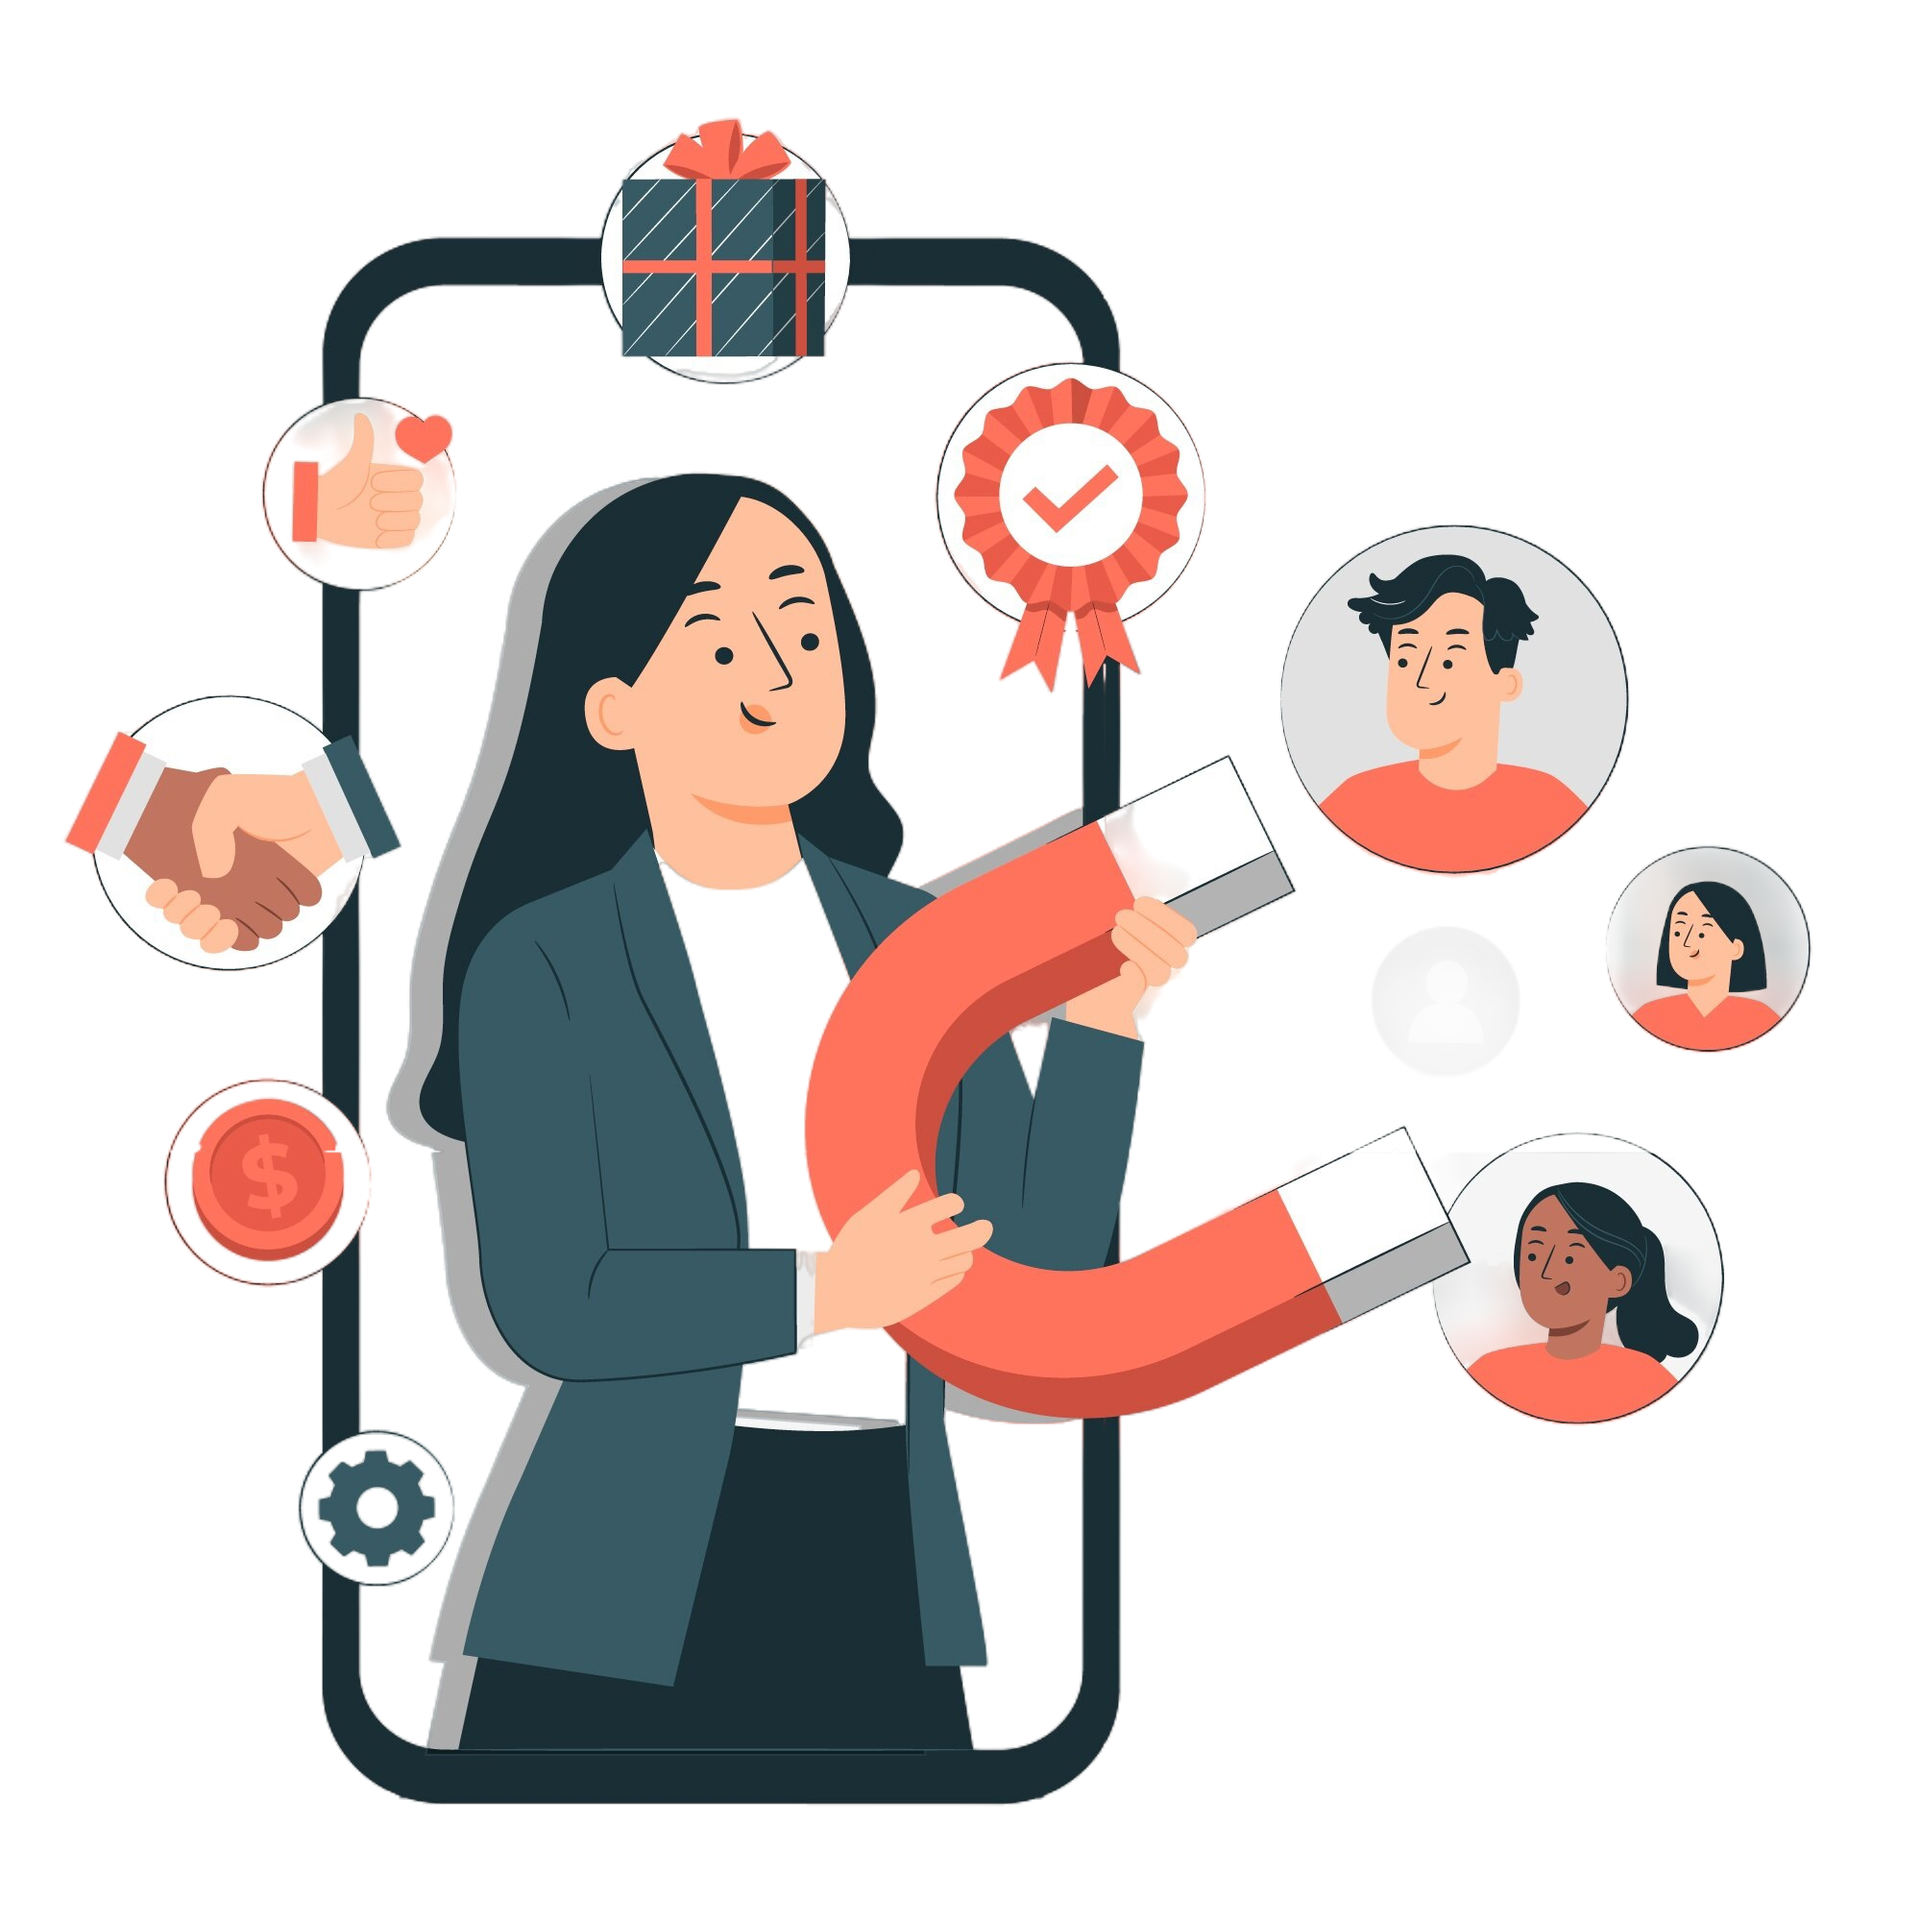
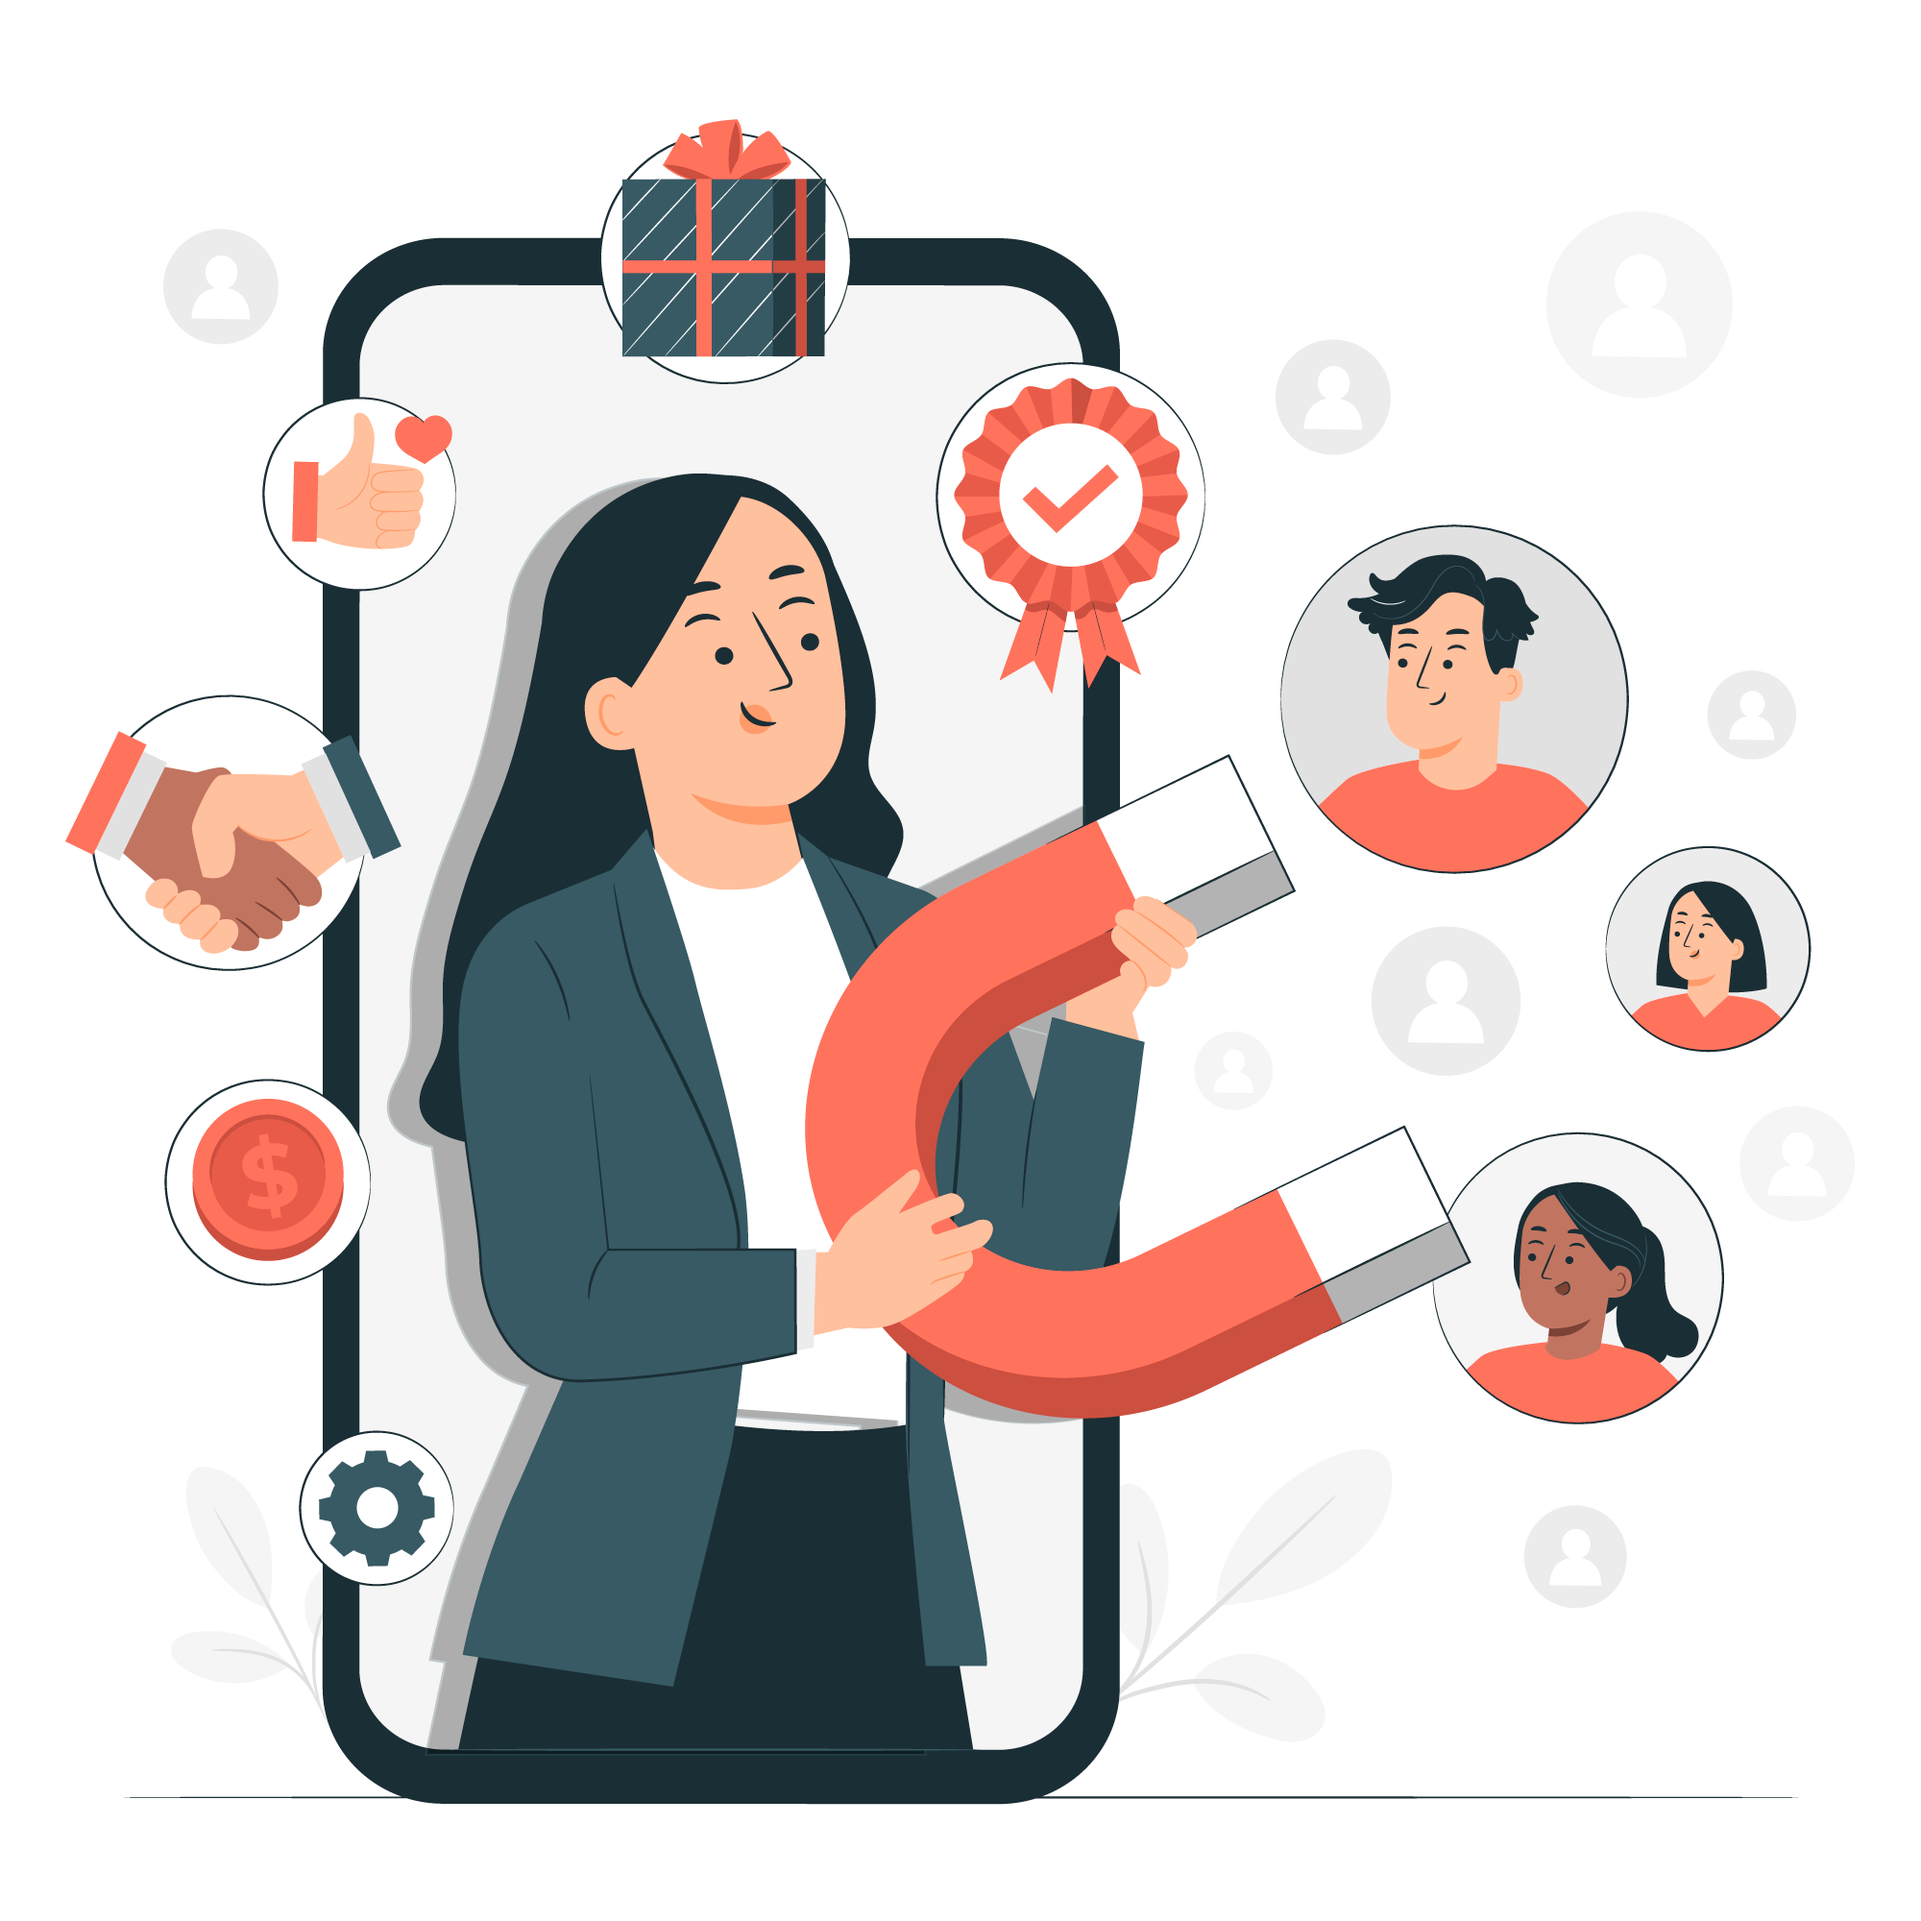
Troca das imagens do SEO

diff --git a/src/components/seo/seo.tsx b/src/components/seo/seo.tsx
@@ -17,7 +17,7 @@ export default function Seo() {
 
             <div className="container-m-seo">
                 <div className="img-seo">
-                    <img src="./images/seoanalyticstwo_2.png" alt="" />
+                    <img src="./images/seoanalyticstwo.png" alt="" />
                 </div>
                 <div className="infos-seo2">
                     <h1>Como utilizamos o SEO na construção dos sites</h1>
